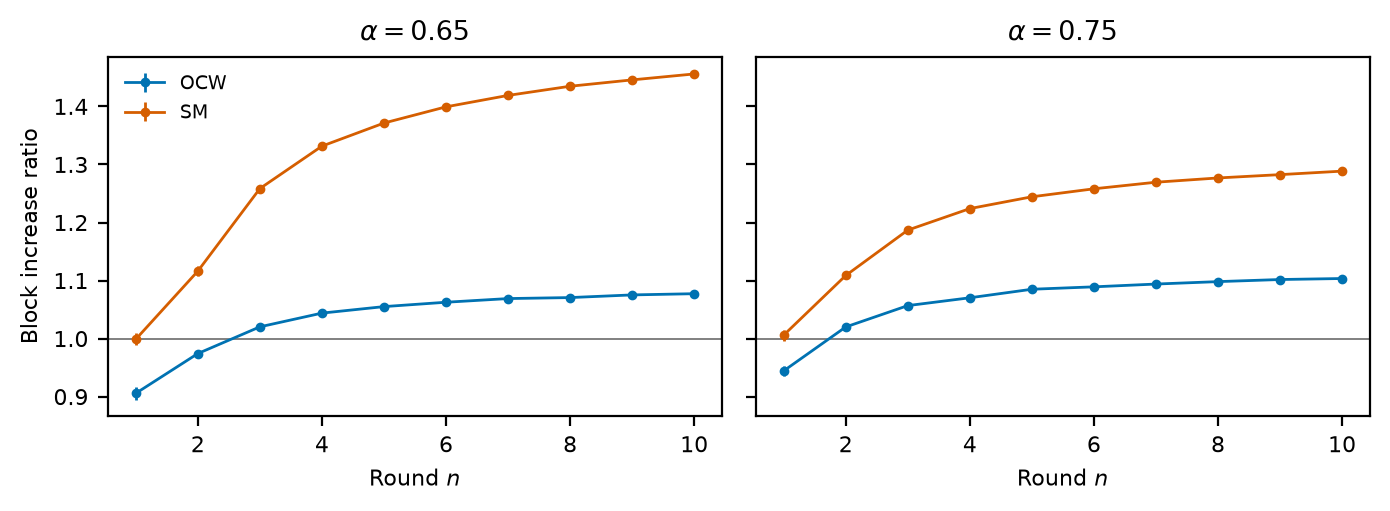
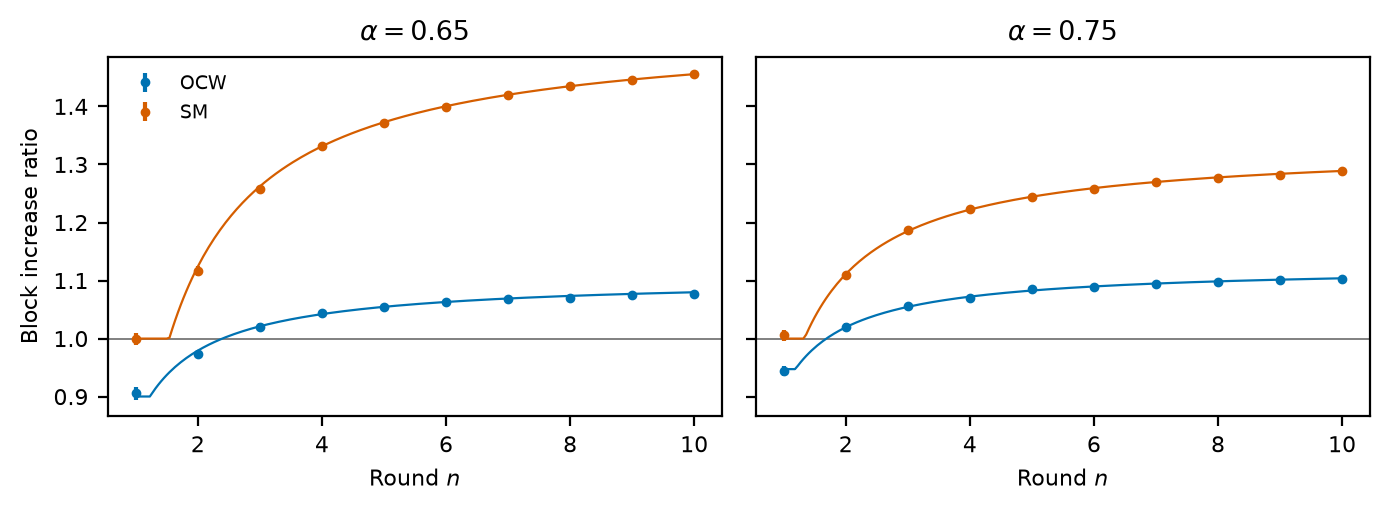
Check the DAA rounds against the paper's closed forms (Eq. 3-9)

diff --git a/ocw/rounds.py b/ocw/rounds.py
@@ -7,15 +7,19 @@ Difficulty adjusts every 2016 counted blocks:
 - canonical DAA counts the canonical chain: OCW (w = 10T) vs selfish mining;
 - public DAA counts every published block, orphans included: OCW attacker
   and honest miners.
+Lines are the closed forms of the paper's Appendix B, dots the simulation.
 """
 
 import matplotlib.pyplot as plt
+import numpy as np
 
 from harness import COLORS, main, monte_carlo
 from ocw.chain import EPOCH, Net
+from ocw.theory import q, ratio, rho
 
 ALPHAS = (0.65, 0.75)
 ROUNDS = range(1, 11)
+W = 10.0  # withholding window, in units of T
 
 
 def selfish(rng, alpha, horizon):
@@ -36,7 +40,7 @@ def selfish(rng, alpha, horizon):
 def simulate(rng, strategy, daa, alpha, n):
     if strategy == "SM":
         return {"attacker": selfish(rng, alpha, n * EPOCH) / (alpha * n * EPOCH), "honest": 0.0}
-    net = Net(rng, {"A": alpha, "H": 1 - alpha}, cartel={"A"}, daa=daa)
+    net = Net(rng, {"A": alpha, "H": 1 - alpha}, cartel={"A"}, w=W, daa=daa)
     while net.step(until=n * EPOCH):
         pass
     miners = [net.miner[b] for b in net.chain()]
@@ -48,8 +52,20 @@ def run():
     return monte_carlo(simulate, [dict(strategy=s, daa=d, alpha=a, n=n) for s, d in runs for a in ALPHAS for n in ROUNDS])
 
 
-def curve(ax, d, who, color, label):
-    ax.errorbar(d.n, d[who], d[f"{who}_ci"], fmt="o-", ms=2.5, lw=1, color=color, label=label)
+def theory(strategy, daa, alpha, who, n):
+    if strategy == "SM":  # all attacker blocks and nothing else is canonical
+        return ratio(n, 1, alpha, alpha, alpha)
+    share, hashrate = rho(alpha, W), alpha
+    if who == "honest":
+        share, hashrate = 1 - share, 1 - alpha
+    return ratio(n, share, hashrate, *q(alpha, W, daa))
+
+
+def curve(ax, df, strategy, daa, alpha, who, color, label):
+    d = df[(df.strategy == strategy) & (df.daa == daa) & (df.alpha == alpha)]
+    n = np.linspace(1, max(ROUNDS), 200)
+    ax.plot(n, [theory(strategy, daa, alpha, who, k) for k in n], color=color, lw=0.8)
+    ax.errorbar(d.n, d[who], d[f"{who}_ci"], fmt="o", ms=2.5, color=color, label=label)
 
 
 def panels(titles):
@@ -65,14 +81,14 @@ def plot(df):
     canonical, axes = panels([rf"$\alpha={a}$" for a in ALPHAS])
     for ax, alpha in zip(axes, ALPHAS):
         for color, strategy in zip(COLORS, ("OCW", "SM")):
-            curve(ax, df[(df.daa == "canonical") & (df.alpha == alpha) & (df.strategy == strategy)], "attacker", color, strategy)
+            curve(ax, df, strategy, "canonical", alpha, "attacker", color, strategy)
     axes[0].legend()
     canonical.tight_layout()
 
     public, axes = panels(("Attacker (OCW)", "Honest miners"))
     for ax, who in zip(axes, ("attacker", "honest")):
         for color, alpha in zip(COLORS, ALPHAS):
-            curve(ax, df[(df.daa == "public") & (df.alpha == alpha)], who, color, rf"$\alpha={alpha}$")
+            curve(ax, df, "OCW", "public", alpha, who, color, rf"$\alpha={alpha}$")
     axes[0].legend()
     public.tight_layout()
     return {"rounds_canonical": canonical, "rounds_public": public}

diff --git a/ocw/theory.py b/ocw/theory.py
@@ -1,0 +1,31 @@
+"""The paper's closed forms for attacker hashrate alpha and withholding window w (in T)."""
+
+import math
+
+
+def rho(alpha, w):
+    """Attacker share of canonical blocks (Eq. 2). w = 0 is honest mining."""
+    z = math.exp(-w)
+    return alpha * z + alpha**2 * (1 - z) * (3 - 2 * alpha)
+
+
+def eta(alpha, w):
+    """Orphan rate: orphaned / published blocks (Eq. 25)."""
+    x = alpha**2 * (1 - alpha) * (1 - math.exp(-w))
+    return x / (1 + x)
+
+
+def q(alpha, w, daa):
+    """(q_mc, q): canonical blocks and DAA-counted blocks per mined block (Eq. 4, 7)."""
+    x = alpha * (1 - alpha) * (1 - math.exp(-w))
+    mc = 1 / (1 + x)
+    return mc, mc if daa == "canonical" else (1 + alpha * x) * mc
+
+
+def ratio(n, share, hashrate, mc, counted):
+    """Block increase ratio after n rounds of 2016 T, for a miner holding `share`
+    of the canonical blocks. Before the first retarget it earns share * mc
+    blocks per T (Eq. 3). That retarget comes after 1/counted rounds and speeds
+    blocks up by 1/counted (Eq. 5, 8); later retargets change nothing."""
+    t1 = 1 / counted
+    return share * mc * (min(n, t1) + max(n - t1, 0) / counted) / (hashrate * n)

diff --git a/ocw/share.py b/ocw/share.py
@@ -4,28 +4,15 @@ Each run mines until the canonical chain holds 2016 blocks, without
 difficulty adjustment, and is compared with the closed forms.
 """
 
-import math
-
 import matplotlib.pyplot as plt
 import numpy as np
 
 from harness import COLORS, main, monte_carlo
 from ocw.chain import EPOCH, Net
+from ocw.theory import eta, rho
 
 ALPHAS = np.arange(0.30, 0.81, 0.05).round(2).tolist()
 WINDOWS = (0.0, 0.25, 0.5, 1.0, 2.0, 5.0, 10.0)  # withholding window w, in units of T
-
-
-def rho(alpha, w):
-    """Attacker share of canonical blocks (Eq. 2). w = 0 is honest mining."""
-    z = math.exp(-w)
-    return alpha * z + alpha**2 * (1 - z) * (3 - 2 * alpha)
-
-
-def eta(alpha, w):
-    """Orphan rate: orphaned / published blocks (Eq. 25)."""
-    x = alpha**2 * (1 - alpha) * (1 - math.exp(-w))
-    return x / (1 + x)
 
 
 def simulate(rng, alpha, w):

diff --git a/ocw/README.md b/ocw/README.md
@@ -20,14 +20,15 @@ instant, and the longest chain wins; between two equal-height tips, the one
 published first wins (`γ = 0`). A block counts only if it ends up on the
 canonical chain. Unless stated otherwise, `w = 10T`.
 
-| Script         | Paper     | What it measures                                                             |
-| -------------- | --------- | ---------------------------------------------------------------------------- |
-| `share.py`     | Fig. 3, 4 | Attacker share of canonical blocks and orphan rate, against Eq. 2 and Eq. 25 |
-| `rounds.py`    | Fig. 5, 6 | Canonical blocks over 10 difficulty rounds, OCW vs selfish mining (SM)       |
-| `collusion.py` | §6        | A three-pool OCW cartel whose traitor publishes every block at once          |
+| Script         | Paper     | What it measures                                                                        |
+| -------------- | --------- | --------------------------------------------------------------------------------------- |
+| `share.py`     | Fig. 3, 4 | Attacker share of canonical blocks and orphan rate, against Eq. 2 and Eq. 25            |
+| `rounds.py`    | Fig. 5, 6 | Canonical blocks over 10 difficulty rounds, OCW vs selfish mining (SM), against Eq. 3–9 |
+| `collusion.py` | §6        | A three-pool OCW cartel whose traitor publishes every block at once                     |
 
 `chain.py` is the event-driven simulator: a published block tree, the OCW
-attacker or cartel, and difficulty adjustment (DAA).
+attacker or cartel, and difficulty adjustment (DAA). `theory.py` holds the
+paper's closed forms.
 
 ## Run
 
@@ -47,7 +48,10 @@ closed forms within the confidence intervals.
 
 **Difficulty rounds (Fig. 5, 6).** A round is `2016 T` of wall-clock time.
 The block increase ratio divides a miner's canonical blocks after `n` rounds
-by what it would earn mining honestly, `hashrate · n · 2016`.
+by what it would earn mining honestly, `hashrate · n · 2016`. Lines are the
+closed forms (Eq. 3–9): the miner earns at the pre-retarget rate until the
+first retarget, then at the post-retarget rate. Dots are the simulation; they
+agree within the confidence intervals.
 
 If the DAA counts only canonical blocks, OCW starts below 1 and gains 8–10%
 after 10 rounds. Selfish mining gains more: with `α > 1/2` its private chain
